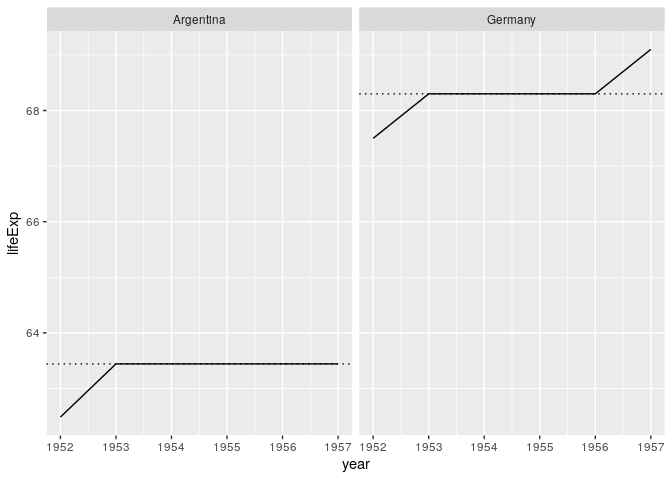
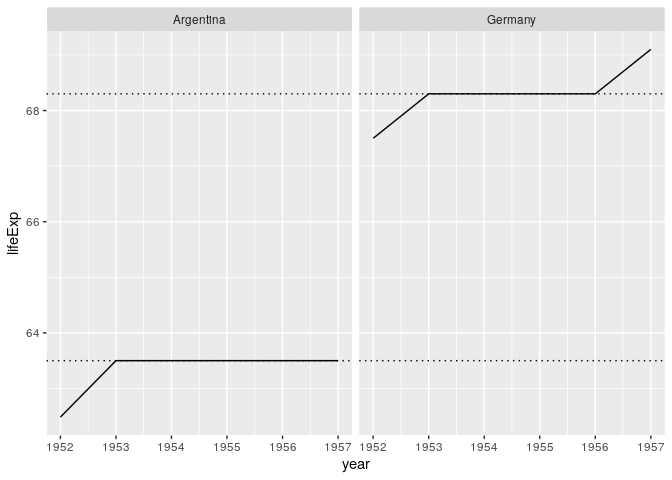
Polish bike

Changed region(s): [[0.0938, 0.75, 0.5, 0.8125], [0.0938, 0.8125, 0.125, 0.875]]

diff --git a/R/03_bicycle_you.md b/R/03_bicycle_you.md
@@ -5,12 +5,12 @@ Bicycle
 
 ``` r
 library(tidyverse)
-#> ── Attaching packages ────────────────────────────────────────────────────────────────────────────────────────────── tidyverse 1.3.0 ──
+#> ── Attaching packages ────────────────────────────────── tidyverse 1.3.0 ──
 #> ✓ ggplot2 3.3.2     ✓ purrr   0.3.4
 #> ✓ tibble  3.0.3     ✓ dplyr   1.0.1
 #> ✓ tidyr   1.1.1     ✓ stringr 1.4.0
 #> ✓ readr   1.3.1     ✓ forcats 0.5.0
-#> ── Conflicts ───────────────────────────────────────────────────────────────────────────────────────────────── tidyverse_conflicts() ──
+#> ── Conflicts ───────────────────────────────────── tidyverse_conflicts() ──
 #> x dplyr::filter() masks stats::filter()
 #> x dplyr::lag()    masks stats::lag()
 library(here)
@@ -264,31 +264,27 @@ subset2
 Let’s degrade this dataset a bit for a later example.
 
 ``` r
-subset3 <- subset2 %>% slice(-2)
-subset3
-#> # A tibble: 3 x 4
-#>   country    year lifeExp  mean
-#>   <chr>     <dbl>   <dbl> <dbl>
-#> 1 Argentina  1952    62.5  63.4
-#> 2 Germany    1952    67.5  68.3
-#> 3 Germany    1957    69.1  68.3
+arg_ger <- subset2 %>% slice(-2) %>% select(-mean)
 ```
 
 ## `complete()`: What’s missing?
 
-Say you start with this dataset, and you care for data between 1952 and
-1957.
-
-This dataset has implicit missing for Argentina in 1957:
+Say you have the dataset `arg_ger`; it is missing data in between 1952
+and 1957, but – somehow – you know the historical mean for each country.
+Let’s use this data and knowledge to try fill the missing data.
 
 ``` r
-subset3
-#> # A tibble: 3 x 4
-#>   country    year lifeExp  mean
-#>   <chr>     <dbl>   <dbl> <dbl>
-#> 1 Argentina  1952    62.5  63.4
-#> 2 Germany    1952    67.5  68.3
-#> 3 Germany    1957    69.1  68.3
+arg_ger
+#> # A tibble: 3 x 3
+#>   country    year lifeExp
+#>   <chr>     <dbl>   <dbl>
+#> 1 Argentina  1952    62.5
+#> 2 Germany    1952    67.5
+#> 3 Germany    1957    69.1
+
+# Historical mean life expectancy
+mean_argentina <- 63.5
+mean_germany <- 68.3
 ```
 
 ## `complete()`: Task
@@ -298,48 +294,44 @@ subset3
 <!-- end list -->
 
 ``` r
-subset3 %>% ________(_______, year)
+arg_ger %>% ________(_______, year)
 ```
 
 ## `complete()`: Result
 
-    #> # A tibble: 4 x 4
-    #>   country    year lifeExp  mean
-    #>   <chr>     <dbl>   <dbl> <dbl>
-    #> 1 Argentina  1952    62.5  63.4
-    #> 2 Argentina  1957    NA    NA  
-    #> 3 Germany    1952    67.5  68.3
-    #> 4 Germany    1957    69.1  68.3
+    #> # A tibble: 4 x 3
+    #>   country    year lifeExp
+    #>   <chr>     <dbl>   <dbl>
+    #> 1 Argentina  1952    62.5
+    #> 2 Argentina  1957    NA  
+    #> 3 Germany    1952    67.5
+    #> 4 Germany    1957    69.1
 
 ## `fill`: Task
 
 Extend the previous code:
 
-  - Use the argument `fill`, and fill the missing data with Argentina’s
-    `mean`.
-  - You may `filter()` data from Argentina an `pull()` the `mean`.
   - You’ll need to pass each value to fill as a named list.
   - Store the result as `filled`.
 
 <!-- end list -->
 
 ``` r
-mean_arg <- subset3 %>% ______(country == "_________") %>% ____(mean)
-filled <- subset3 %>% 
-  ________(country, year, fill = list(lifeExp = ________, ____ = mean_arg))
+filled <- arg_ger %>% 
+  ________(country, year, fill = list(lifeExp = ________, ____ = mean_argentina))
 
 filled
 ```
 
 ## `fill`: Result
 
-    #> # A tibble: 4 x 4
-    #>   country    year lifeExp  mean
-    #>   <chr>     <dbl>   <dbl> <dbl>
-    #> 1 Argentina  1952    62.5  63.4
-    #> 2 Argentina  1957    63.4  63.4
-    #> 3 Germany    1952    67.5  68.3
-    #> 4 Germany    1957    69.1  68.3
+    #> # A tibble: 4 x 3
+    #>   country    year lifeExp
+    #>   <chr>     <dbl>   <dbl>
+    #> 1 Argentina  1952    62.5
+    #> 2 Argentina  1957    63.5
+    #> 3 Germany    1952    67.5
+    #> 4 Germany    1957    69.1
 
 ## `full_seq()`: Task
 
@@ -368,66 +360,53 @@ all_years
 
   - Use `all_years` to `complete()` `year`; also complete `country` with
     itself.
-  - `fill()` values of `mean` for each `country`.
-  - What happens if your forget to `group_by()`?
   - Store the result as `full_mean`.
 
 <!-- end list -->
 
 ``` r
-full_mean <- filled %>% 
-  ________(year = _________, country = _______) %>% 
-  ________(country) %>%
-  ____(mean)
+full_mean <- filled %>% ________(year = _________, country = _______)
 
 full_mean
 ```
 
 ## `fill()`: Result
 
-    #> # A tibble: 12 x 4
-    #> # Groups:   country [2]
-    #>     year country   lifeExp  mean
-    #>    <dbl> <chr>       <dbl> <dbl>
-    #>  1  1952 Argentina    62.5  63.4
-    #>  2  1952 Germany      67.5  68.3
-    #>  3  1953 Argentina    NA    63.4
-    #>  4  1953 Germany      NA    68.3
-    #>  5  1954 Argentina    NA    63.4
-    #>  6  1954 Germany      NA    68.3
-    #>  7  1955 Argentina    NA    63.4
-    #>  8  1955 Germany      NA    68.3
-    #>  9  1956 Argentina    NA    63.4
-    #> 10  1956 Germany      NA    68.3
-    #> 11  1957 Argentina    63.4  63.4
-    #> 12  1957 Germany      69.1  68.3
+    #> # A tibble: 12 x 3
+    #>     year country   lifeExp
+    #>    <dbl> <chr>       <dbl>
+    #>  1  1952 Argentina    62.5
+    #>  2  1952 Germany      67.5
+    #>  3  1953 Argentina    NA  
+    #>  4  1953 Germany      NA  
+    #>  5  1954 Argentina    NA  
+    #>  6  1954 Germany      NA  
+    #>  7  1955 Argentina    NA  
+    #>  8  1955 Germany      NA  
+    #>  9  1956 Argentina    NA  
+    #> 10  1956 Germany      NA  
+    #> 11  1957 Argentina    63.5
+    #> 12  1957 Germany      69.1
 
 ## `case_when()`: Task
 
-  - `pull()` the `mean` `lifeExp` for “Germany” and store it as
-    `mean_ger`
-  - Fill `lifeExp` with corresponding values of `mean`, using
-    `case_when()`.
-  - There are 3 cases: the result should be `mean_arg`, `mean_ger`, or
+Fill `lifeExp` with the mean historical values for each country:
+
+  - Use `mutate()` and `case_when()`.
+  - The 3 possible results are `mean_argentina`, `mean_germany`, or
     `lifeExp`.
   - Store the result as `full`.
 
 ## `case_when()`: Task
 
 ``` r
-mean_ger <- subset3 %>% 
-  ________(country, mean) %>% 
-  ______(country == "Germany") %>% 
-  ____(mean)
-
-other <- TRUE
-
 full <- full_mean %>% 
   mutate(
     lifeExp = _________(
-      is.na(lifeExp) & country == "Argentina" ~ ________,
-      is.na(lifeExp) & country == "Germany"   ~ ________,
-      other                                   ~ lifeExp
+      _____(lifeExp) & country == "_________" ~ mean_argentina,
+      is.na(_______) & _______ == "Germany"   ~ ____________,
+      # Any other case
+      TRUE                                    ~ lifeExp
     )
   )
 
@@ -436,28 +415,27 @@ full
 
 ## `case_when()`: Result
 
-    #> # A tibble: 12 x 4
-    #> # Groups:   country [2]
-    #>     year country   lifeExp  mean
-    #>    <dbl> <chr>       <dbl> <dbl>
-    #>  1  1952 Argentina    62.5  63.4
-    #>  2  1952 Germany      67.5  68.3
-    #>  3  1953 Argentina    63.4  63.4
-    #>  4  1953 Germany      68.3  68.3
-    #>  5  1954 Argentina    63.4  63.4
-    #>  6  1954 Germany      68.3  68.3
-    #>  7  1955 Argentina    63.4  63.4
-    #>  8  1955 Germany      68.3  68.3
-    #>  9  1956 Argentina    63.4  63.4
-    #> 10  1956 Germany      68.3  68.3
-    #> 11  1957 Argentina    63.4  63.4
-    #> 12  1957 Germany      69.1  68.3
+    #> # A tibble: 12 x 3
+    #>     year country   lifeExp
+    #>    <dbl> <chr>       <dbl>
+    #>  1  1952 Argentina    62.5
+    #>  2  1952 Germany      67.5
+    #>  3  1953 Argentina    63.5
+    #>  4  1953 Germany      68.3
+    #>  5  1954 Argentina    63.5
+    #>  6  1954 Germany      68.3
+    #>  7  1955 Argentina    63.5
+    #>  8  1955 Germany      68.3
+    #>  9  1956 Argentina    63.5
+    #> 10  1956 Germany      68.3
+    #> 11  1957 Argentina    63.5
+    #> 12  1957 Germany      69.1
 
 ## Plot: Task
 
   - Make a line-plot of `year` versus `lifeExp`.
-  - Add a “dotted” line intercepting `y` at the `mean` value for each
-    `country`.
+  - Add a “dotted” line intercepting `y` at the historical mean of each
+    country.
   - Use `facet_wrap()` to plot each country in a separate panel.
 
 <!-- end list -->
@@ -466,7 +444,7 @@ full
 full %>% 
   ggplot(aes(____, _______)) + 
   _____line() +
-  _____hline(aes(__________ = mean), linetype = "______") +
+  _____hline(__________ = c(mean_argentina, mean_germany), linetype = "______") +
   __________(~country)
 ```
 
